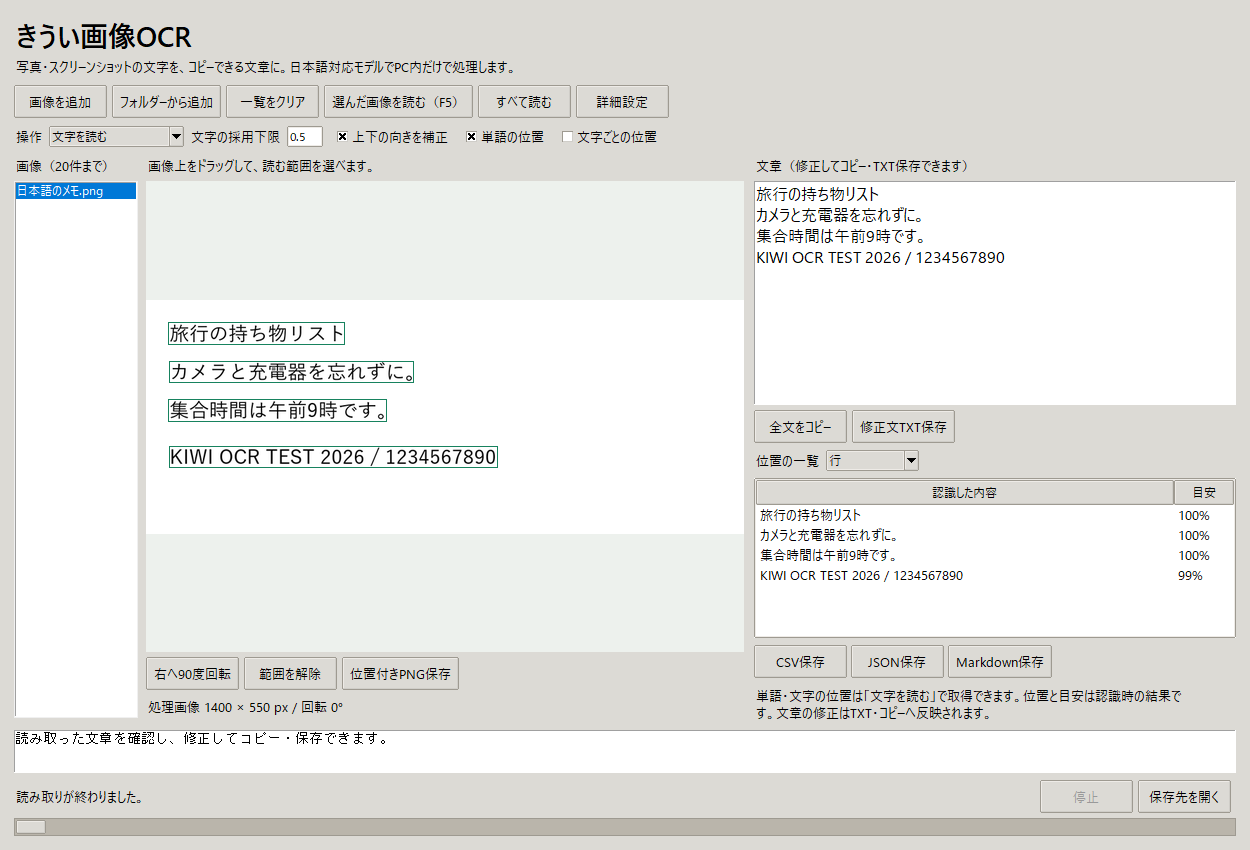
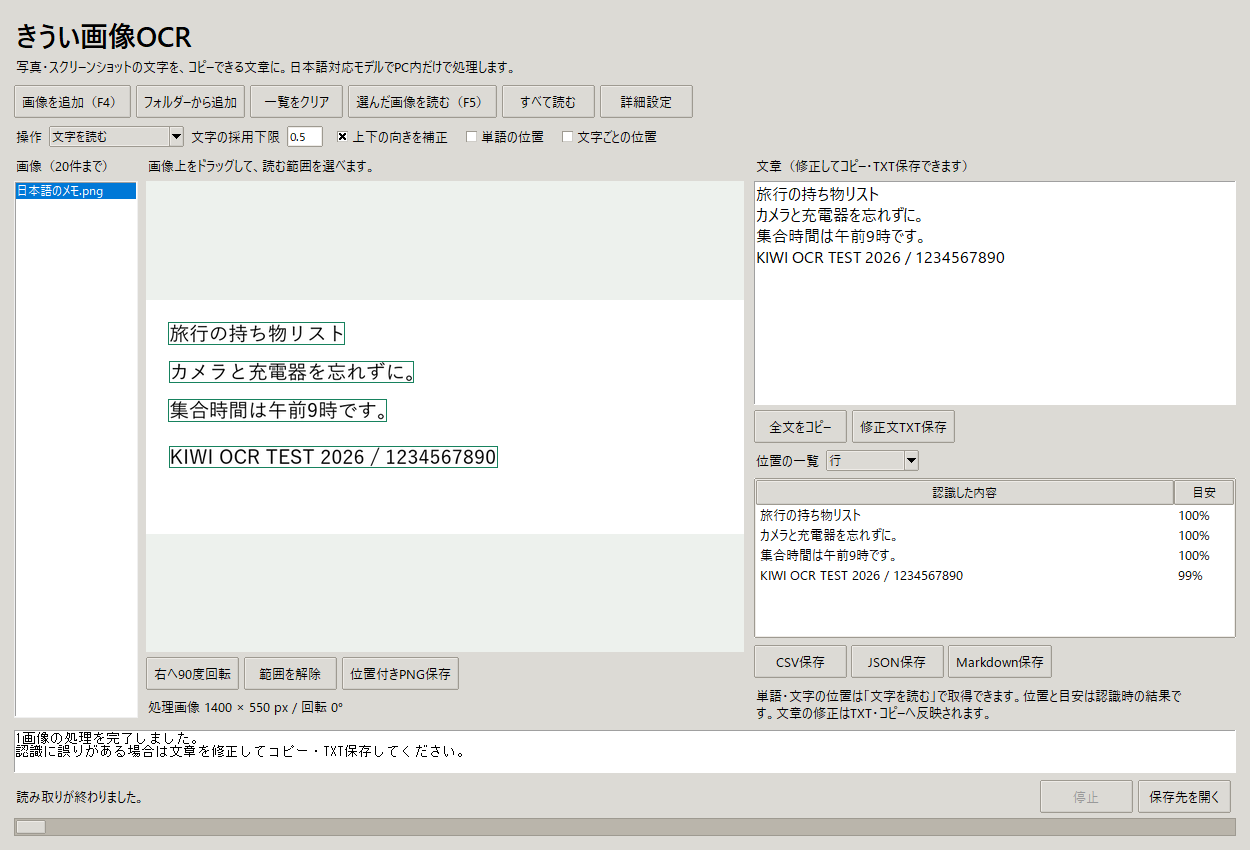
Open OCR images through the file picker

Changed region(s): [[0.0312, 0.0918, 0.5304, 0.1529], [0.0, 0.8565, 0.1872, 0.8871], [0.2184, 0.8565, 0.312, 0.8871]]

diff --git a/apps/kiwi-ocr/main.py b/apps/kiwi-ocr/main.py
@@ -16,7 +16,7 @@ class App:
   s=ttk.Style();s.theme_use('clam');s.configure('.',font=('Yu Gothic UI',10));s.configure('Title.TLabel',font=('Yu Gothic UI',21,'bold'))
   out=ttk.Frame(root,padding=14);out.pack(fill='both',expand=True);ttk.Label(out,text='きうい画像OCR',style='Title.TLabel').pack(anchor='w');ttk.Label(out,text='写真・スクリーンショットの文字を、コピーできる文章に。日本語対応モデルでPC内だけで処理します。').pack(anchor='w',pady=(0,8))
   f=ttk.Frame(out);f.pack(fill='x')
-  for label,cmd in [('画像を追加',self.add),('フォルダーから追加',self.add_folder),('一覧をクリア',self.clear),('選んだ画像を読む（F5）',lambda:self.read(False)),('すべて読む',lambda:self.read(True)),('詳細設定',self.advanced)]:self.button(f,label,cmd).pack(side='left',padx=(0,5))
+  for label,cmd in [('画像を追加（F4）',self.add),('フォルダーから追加',self.add_folder),('一覧をクリア',self.clear),('選んだ画像を読む（F5）',lambda:self.read(False)),('すべて読む',lambda:self.read(True)),('詳細設定',self.advanced)]:self.button(f,label,cmd).pack(side='left',padx=(0,5))
   f=ttk.Frame(out);f.pack(fill='x',pady=7);ttk.Label(f,text='操作').pack(side='left');ttk.Combobox(f,textvariable=self.mode,values=list(MODES),state='readonly',width=19).pack(side='left',padx=5);ttk.Label(f,text='文字の採用下限').pack(side='left');ttk.Entry(f,textvariable=self.score,width=5).pack(side='left',padx=5)
   for text,var in [('上下の向きを補正',self.cls),('単語の位置',self.word),('文字ごとの位置',self.char)]:ttk.Checkbutton(f,text=text,variable=var).pack(side='left',padx=6)
   content=ttk.Frame(out,height=440);content.grid_propagate(False);content.pack(fill='both',expand=True);content.columnconfigure(1,weight=3);content.columnconfigure(2,weight=2);content.rowconfigure(0,weight=1)
@@ -32,7 +32,7 @@ class App:
   for label,ext in [('CSV保存','csv'),('JSON保存','json'),('Markdown保存','md')]:self.button(f,label,lambda k=ext:self.export(k)).pack(side='left',padx=(0,4))
   ttk.Label(right,text='単語・文字の位置は「文字を読む」で取得できます。位置と目安は認識時の結果です。文章の修正はTXT・コピーへ反映されます。',wraplength=430).pack(anchor='w')
   self.logbox=tk.Text(out,height=3,wrap='word',state='disabled');self.logbox.pack(fill='x',pady=7);f=ttk.Frame(out);f.pack(fill='x');ttk.Label(f,textvariable=self.status,wraplength=1000).pack(side='left',fill='x',expand=True);self.button(f,'保存先を開く',self.open_folder).pack(side='right',padx=5);self.stop=ttk.Button(f,text='停止',command=self.cancel.set,state='disabled');self.stop.pack(side='right');self.progress=ttk.Progressbar(out,mode='indeterminate');self.progress.pack(fill='x',pady=(5,0))
-  root.bind('<F5>',lambda e:self.guard(lambda:self.read(False)));root.protocol('WM_DELETE_WINDOW',self.close);root.after(70,self.poll)
+  root.bind('<F4>',lambda e:self.guard(self.add));root.bind('<F5>',lambda e:self.guard(lambda:self.read(False)));root.protocol('WM_DELETE_WINDOW',self.close);root.after(70,self.poll)
  def button(self,p,text,fn):return ttk.Button(p,text=text,command=lambda:self.guard(fn))
  def guard(self,fn):
   if self.busy:return
@@ -51,7 +51,7 @@ class App:
   self.paths=paths;self.files.delete(0,'end')
   for p in paths:self.files.insert('end',Path(p).name)
   if paths:self.files.selection_set(0);self.selected()
- def add(self):self.add_paths(filedialog.askopenfilenames(parent=self.root,filetypes=[('画像','*.png *.jpg *.jpeg *.webp *.bmp *.gif *.tif *.tiff')]))
+ def add(self):self.add_paths(filedialog.askopenfilenames(parent=self.root,title='画像を追加',filetypes=[('画像','*.png *.jpg *.jpeg *.webp *.bmp *.gif *.tif *.tiff')]))
  def add_folder(self):
   path=filedialog.askdirectory(parent=self.root)
   if path:self.add_paths(sorted(p for p in Path(path).iterdir() if p.is_file() and p.suffix.lower() in ('.png','.jpg','.jpeg','.webp','.bmp','.gif','.tif','.tiff')))
@@ -193,5 +193,4 @@ class App:
 if __name__=='__main__':
  multiprocessing.freeze_support()
  app=App(tk.Tk())
- if len(sys.argv)>1:app.root.after(150,lambda:app.guard(lambda:app.add_paths(sys.argv[1:])))
  app.root.mainloop()
